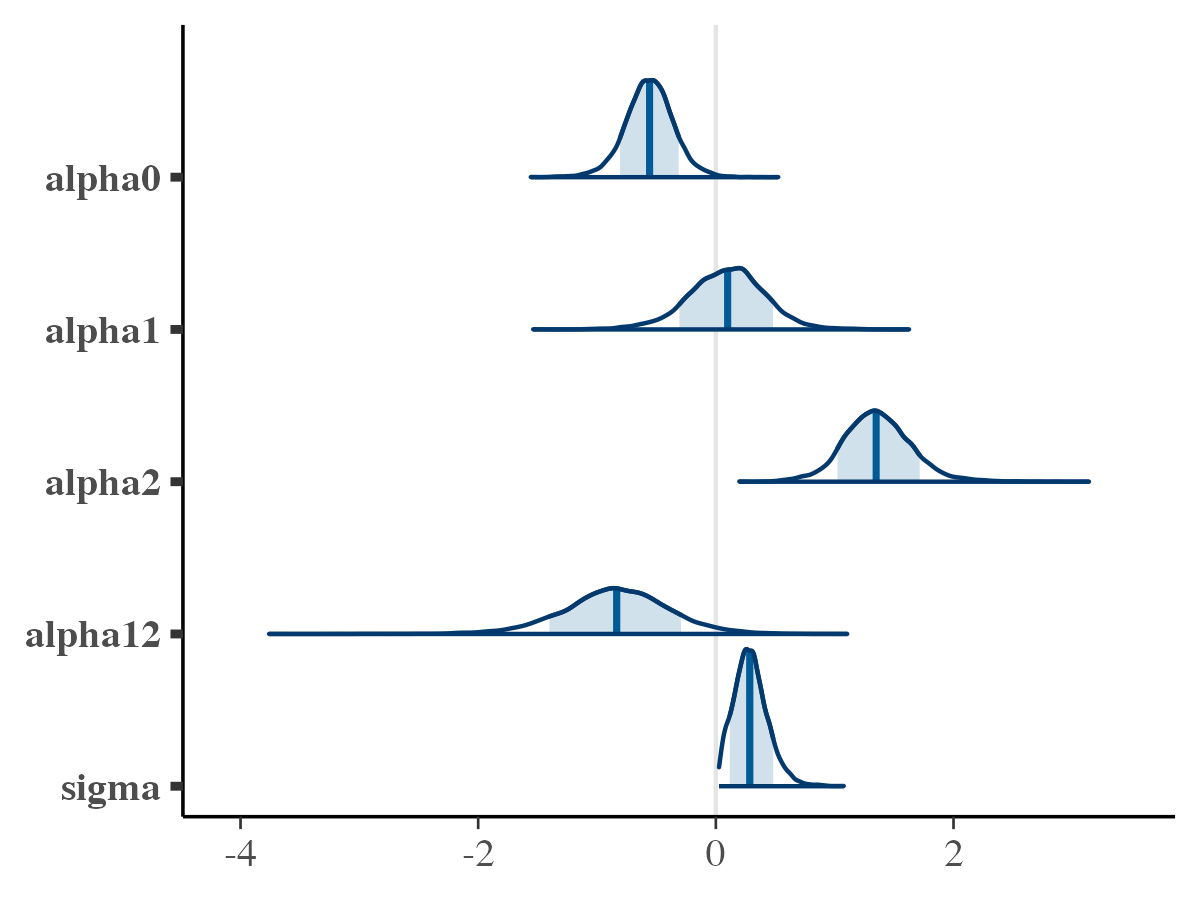
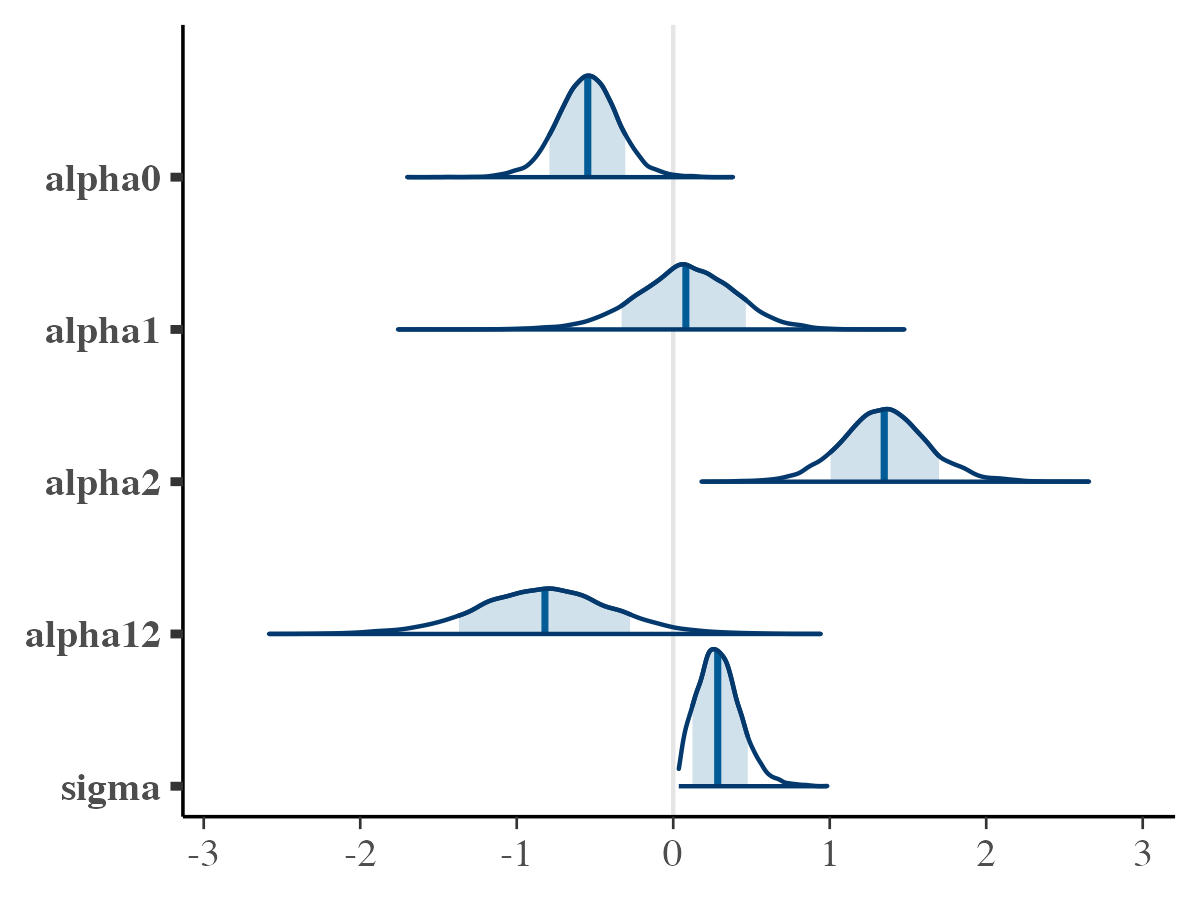
deploy: 3bfa3cf95e9ddb0176b7e2f0b1d698e0526aa9a1

diff --git a/articles/rjuliabugs.html b/articles/rjuliabugs.html
@@ -259,17 +259,17 @@ through <code>summary</code> function</p>
 <span><span class="co">#&gt; </span></span>
 <span><span class="co">#&gt; Summary Statistics:</span></span>
 <span><span class="co">#&gt; </span></span>
-<span><span class="co">#&gt;  parameters     mean      std     mcse ess_bulk ess_tail  rhat ess_per_sec</span></span>
-<span><span class="co">#&gt;         tau 40.23771 110.5683 6.507284    414.5    289.9 1.007          NA</span></span>
-<span><span class="co">#&gt;     alpha12 -0.84034   0.4473 0.008081   3148.6   3400.5 1.001          NA</span></span>
-<span><span class="co">#&gt;      alpha2  1.36184   0.2876 0.005356   3003.5   3030.1 1.001          NA</span></span>
-<span><span class="co">#&gt;      alpha1  0.08920   0.3229 0.005631   3322.6   3822.7 1.001          NA</span></span>
-<span><span class="co">#&gt;      alpha0 -0.55927   0.2036 0.003679   3114.3   3286.1 1.001          NA</span></span>
-<span><span class="co">#&gt;        b[1] -0.20270   0.2680 0.005212   2749.3   3915.8 1.002          NA</span></span>
-<span><span class="co">#&gt;        b[2]  0.01101   0.2312 0.003486   4605.6   4261.9 1.004          NA</span></span>
-<span><span class="co">#&gt;        b[3] -0.20210   0.2377 0.004620   2656.4   3811.8 1.002          NA</span></span>
-<span><span class="co">#&gt;        b[4]  0.28844   0.2683 0.007516   1236.4   3136.7 1.001          NA</span></span>
-<span><span class="co">#&gt;        b[5]  0.12277   0.2490 0.004057   4169.1   3562.3 1.001          NA</span></span>
+<span><span class="co">#&gt;  parameters      mean     std     mcse ess_bulk ess_tail  rhat ess_per_sec</span></span>
+<span><span class="co">#&gt;         tau 31.222168 60.4454 3.485877    457.5    347.4 1.016          NA</span></span>
+<span><span class="co">#&gt;     alpha12 -0.824057  0.4367 0.007148   3736.6   4140.7 1.001          NA</span></span>
+<span><span class="co">#&gt;      alpha2  1.351839  0.2796 0.004857   3352.2   4035.3 1.001          NA</span></span>
+<span><span class="co">#&gt;      alpha1  0.074339  0.3177 0.005315   3564.6   4473.5 1.001          NA</span></span>
+<span><span class="co">#&gt;      alpha0 -0.547703  0.1963 0.003643   2904.7   3794.1 1.002          NA</span></span>
+<span><span class="co">#&gt;        b[1] -0.206076  0.2659 0.006117   2084.9   4265.4 1.002          NA</span></span>
+<span><span class="co">#&gt;        b[2]  0.004019  0.2282 0.003254   5141.2   3834.6 1.004          NA</span></span>
+<span><span class="co">#&gt;        b[3] -0.209329  0.2375 0.005155   2195.9   3484.2 1.003          NA</span></span>
+<span><span class="co">#&gt;        b[4]  0.279175  0.2620 0.006253   1798.1   3456.7 1.002          NA</span></span>
+<span><span class="co">#&gt;        b[5]  0.118719  0.2397 0.003697   4348.1   4394.2 1.002          NA</span></span>
 <span><span class="co">#&gt;          ...</span></span>
 <span><span class="co">#&gt;   17 rows omitted</span></span></code></pre></div>
 <p>If we wish to obtain the summary statistics for each saved parameter,
@@ -380,7 +380,7 @@ package:</p>
 <span></span>
 <span><span class="co"># Example: effective sample size</span></span>
 <span><span class="fu">posterior</span><span class="fu">::</span><span class="fu"><a href="https://mc-stan.org/posterior/reference/ess_basic.html" class="external-link">ess_basic</a></span><span class="op">(</span><span class="va">posterior</span><span class="op">$</span><span class="va">params</span><span class="op">[</span>,,<span class="st">"alpha0"</span><span class="op">]</span><span class="op">)</span></span>
-<span><span class="co">#&gt; [1] 3062.448</span></span></code></pre></div>
+<span><span class="co">#&gt; [1] 2902.741</span></span></code></pre></div>
 </div>
 <div class="section level2">
 <h2 id="saving-and-loading-the-rjuliabugs-model">Saving and loading the <code>rjuliabugs</code> model<a class="anchor" aria-label="anchor" href="#saving-and-loading-the-rjuliabugs-model"></a>

diff --git a/reference/juliaBUGS.html b/reference/juliaBUGS.html
@@ -69,6 +69,7 @@ for the HMC sampler uses Not-U-Turn Sampler (NUTS) with the target acceptance pr
 <span>  posterior_type <span class="op">=</span> <span class="st">"array"</span>,</span>
 <span>  force_setup_juliaBUGS <span class="op">=</span> <span class="cn">FALSE</span>,</span>
 <span>  control <span class="op">=</span> <span class="cn">NULL</span>,</span>
+<span>  progress <span class="op">=</span> <span class="cn">TRUE</span>,</span>
 <span>  <span class="va">...</span></span>
 <span><span class="op">)</span></span></code></pre></div>
     </div>
@@ -138,10 +139,14 @@ The default is <code>NULL</code>, which means no default initial values are used
 <dd><p>Logical. If <code>TRUE</code>, automatically renames variables in the BUGS model. Default is <code>FALSE</code>.</p></dd>
 
 <dt><code>julia_model</code></dt>
-<dd><p>Logical. If <code>TRUE</code>, assumes the model is already in Julia format. Default is <code>FALSE</code>.</p></dd>
+<dd><p>Logical. If <code>TRUE</code>, assumes the model is already in Julia format used by the models under the <code>Turing.jl</code> appraoch, not a BUGS model. Default is <code>FALSE</code>.</p></dd>
 
 
 </dl></dd>
+
+
+<dt id="arg-progress">progress<a class="anchor" aria-label="anchor" href="#arg-progress"></a></dt>
+<dd><p>Logical. If <code>TRUE</code>, a progress bar will be displayed; if <code>FALSE</code>, it will not. The default is <code>TRUE</code>.</p></dd>
 
 
 <dt id="arg--">...<a class="anchor" aria-label="anchor" href="#arg--"></a></dt>
